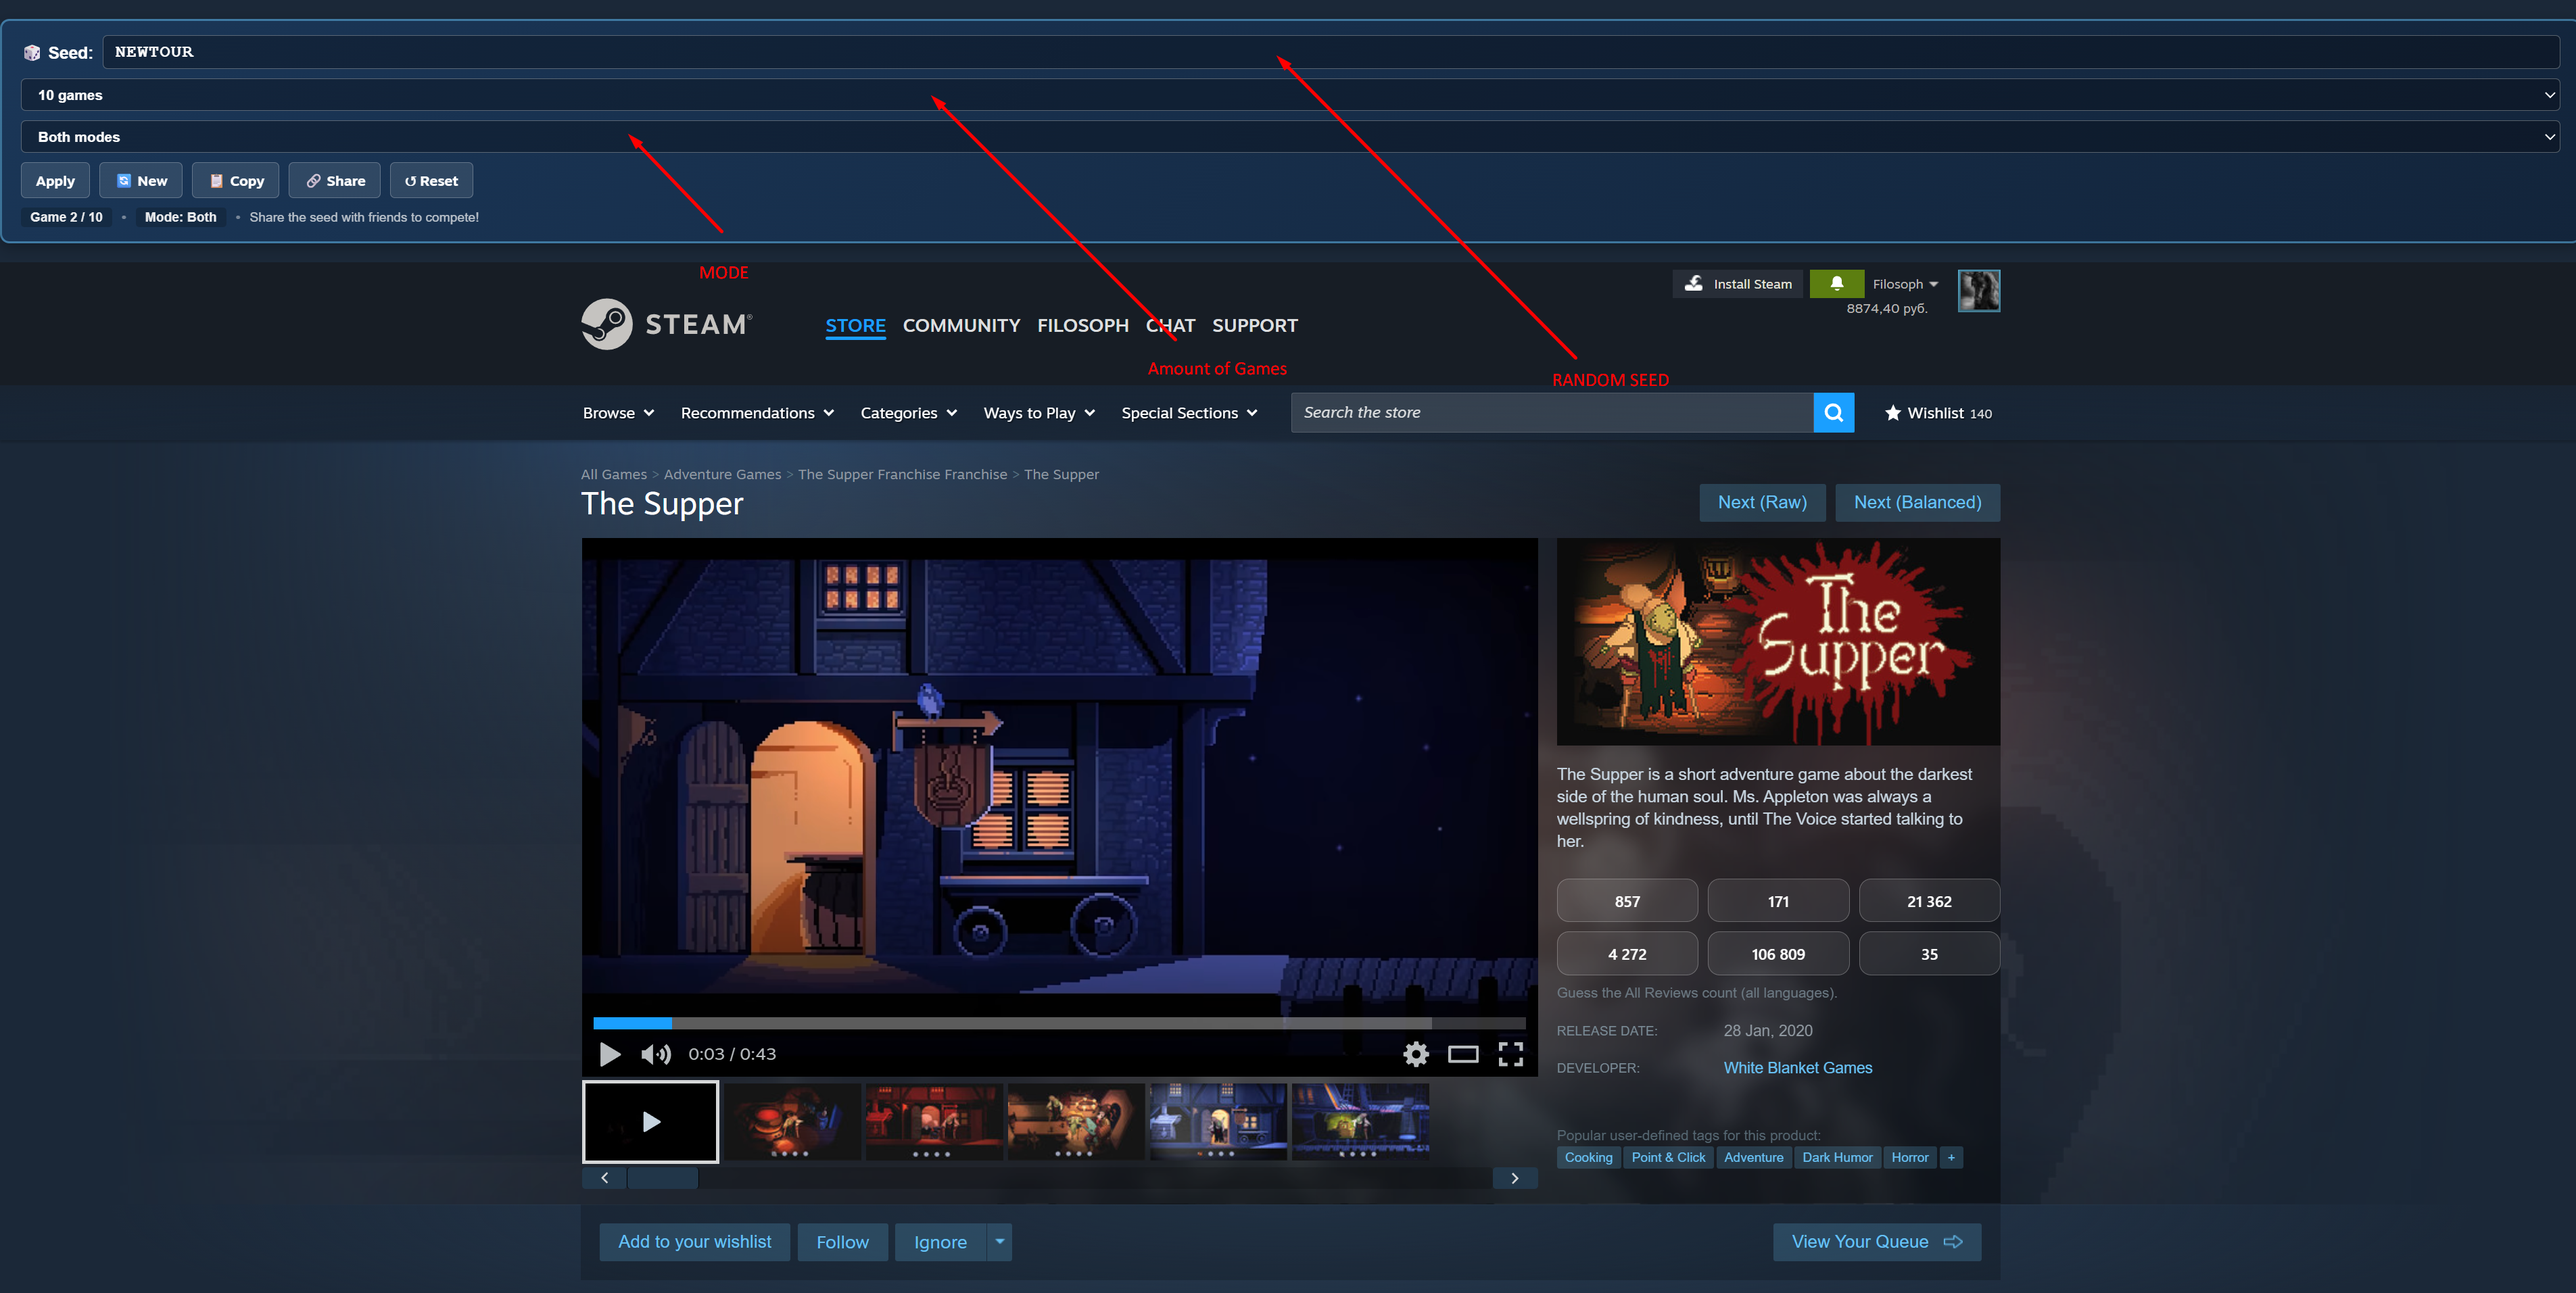
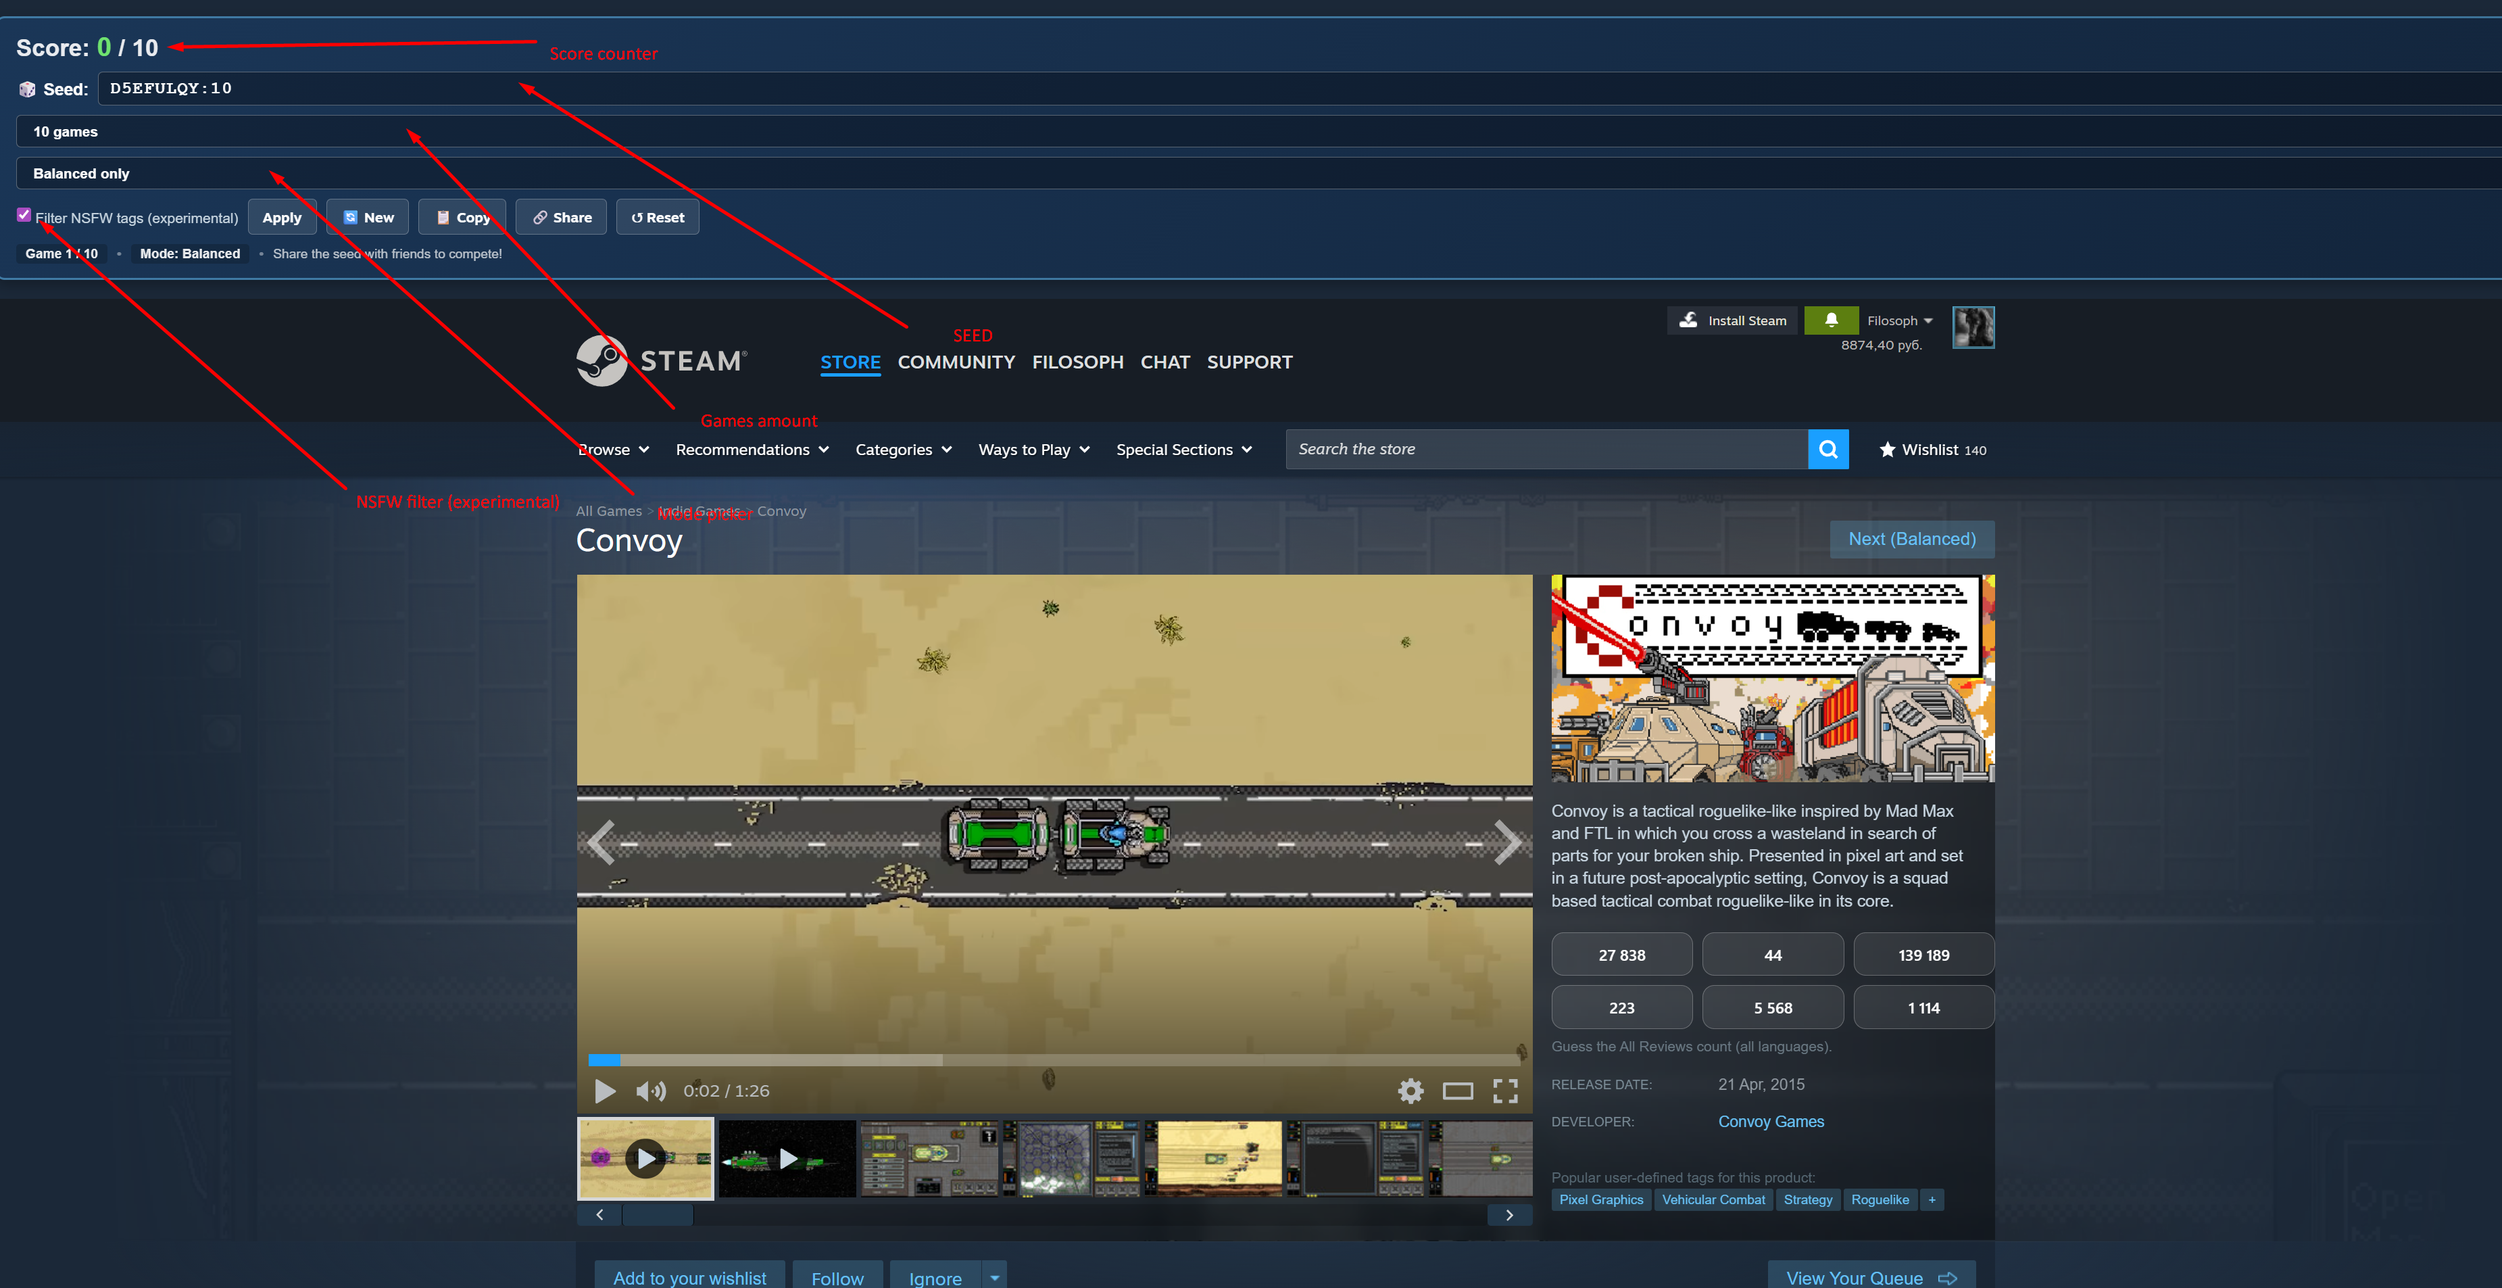
Added score, updated Scressnshot

diff --git a/src/seededRandom.js b/src/seededRandom.js
@@ -61,6 +61,7 @@
 	let currentSeed = null;
 	let currentRNG = null;
 	let gameCounter = 0;
+	let correctCounter = 0; // number of correctly answered games
 	let maxGames = null; // null = unlimited
 	let gameMode = null; // null = both modes, "pure" = raw only, "smart" = balanced only
 	let nsfwFilterEnabled = false; // experimental NSFW tag filtering
@@ -153,7 +154,8 @@
 		currentSeed = seedString;
 		currentRNG = new SeededRNG(seedNumber);
 		maxGames = gameLimit;
-		gameCounter = 0; // Reset counter when seed changes
+		gameCounter = 0; // Reset counters when seed changes
+		correctCounter = 0;
 		
 		// Set game mode if provided
 		if (mode !== undefined) {
@@ -165,6 +167,7 @@
 			localStorage.setItem('reviewguesser:seed', seedString);
 			localStorage.setItem('reviewguesser:maxgames', gameLimit === null ? '' : String(gameLimit));
 			localStorage.setItem('reviewguesser:gamecount', '0');
+			localStorage.setItem('reviewguesser:correctcount', '0');
 			localStorage.setItem('reviewguesser:gamemode', gameMode === null ? '' : String(gameMode));
 			// Track how many times we've actually navigated (used for RNG restore).
 			// This never gets decremented when NSFW pages are auto-skipped so
@@ -200,6 +203,7 @@
 			let savedSeed = null;
 			let savedMaxGames = null;
 			let savedGameCount = 0;
+			let savedCorrectCount = 0;
 			let savedGameMode = null;
 			let savedNavCount = null;
 			
@@ -208,6 +212,7 @@
 				const maxGamesStr = localStorage.getItem('reviewguesser:maxgames');
 				const gameCountStr = localStorage.getItem('reviewguesser:gamecount');
 				const gameModeStr = localStorage.getItem('reviewguesser:gamemode');
+				const correctCountStr = localStorage.getItem('reviewguesser:correctcount');
 				const nsfwFilterStr = localStorage.getItem('reviewguesser:nsfwfilter');
 				const navCountStr = localStorage.getItem('reviewguesser:navcount');
 				
@@ -219,6 +224,9 @@
 				}
 				if (gameModeStr && gameModeStr !== '') {
 					savedGameMode = gameModeStr;
+				}
+				if (correctCountStr) {
+					savedCorrectCount = parseInt(correctCountStr, 10) || 0;
 				}
 
 				if (nsfwFilterStr === '1') {
@@ -250,6 +258,7 @@
 				currentRNG = new SeededRNG(seedNumber);
 				maxGames = savedMaxGames;
 				gameCounter = savedGameCount;
+				correctCounter = savedCorrectCount;
 				gameMode = savedGameMode;
 
 				// CRITICAL FIX: Advance RNG state based on how many times we've
@@ -314,6 +323,27 @@
 	}
 
 	/**
+	 * Increment correct answer counter (call when answering correctly)
+	 * @returns {number} New correct count
+	 */
+	function incrementCorrectCounter() {
+		correctCounter++;
+
+		try {
+			localStorage.setItem('reviewguesser:correctcount', String(correctCounter));
+		} catch (e) {
+			console.warn('[ext] Failed to save correct count', e);
+		}
+
+		// Separate event so UI can react specifically to score changes
+		window.dispatchEvent(new CustomEvent('ext:scorechanged', {
+			detail: { correctCount: correctCounter, maxGames: maxGames }
+		}));
+
+		return correctCounter;
+	}
+
+	/**
 	 * Decrement game counter by 1 (used when auto-skipping NSFW pages).
 	 * Does nothing if the counter is already 0.
 	 *
@@ -348,6 +378,14 @@
 	}
 
 	/**
+	 * Get current correct-answer counter
+	 * @returns {number}
+	 */
+	function getCorrectCounter() {
+		return correctCounter;
+	}
+
+	/**
 	 * Get max games limit
 	 * @returns {number|null} null means unlimited
 	 */
@@ -370,14 +408,20 @@
 	 */
 	function resetGameCounter() {
 		gameCounter = 0;
+		correctCounter = 0;
 		try {
 			localStorage.setItem('reviewguesser:gamecount', '0');
+			localStorage.setItem('reviewguesser:correctcount', '0');
 		} catch (e) {
 			console.warn('[ext] Failed to reset game count', e);
 		}
 
 		window.dispatchEvent(new CustomEvent('ext:gamecountchanged', {
 			detail: { gameCount: 0, maxGames: maxGames }
+		}));
+
+		window.dispatchEvent(new CustomEvent('ext:scorechanged', {
+			detail: { correctCount: 0, maxGames: maxGames }
 		}));
 
 		return 0;
@@ -459,8 +503,10 @@
 	ns.resetSeed = resetSeed;
 	ns.hashString = hashString;
 	ns.incrementGameCounter = incrementGameCounter;
+	ns.incrementCorrectCounter = incrementCorrectCounter;
 	ns.decrementGameCounter = decrementGameCounter;
 	ns.getGameCounter = getGameCounter;
+	ns.getCorrectCounter = getCorrectCounter;
 	ns.getMaxGames = getMaxGames;
 	ns.isGameLimitReached = isGameLimitReached;
 	ns.resetGameCounter = resetGameCounter;

diff --git a/src/seedUI.js b/src/seedUI.js
@@ -12,6 +12,8 @@
 	const setGameMode = ns.setGameMode;
 	const getNSFWFilterEnabled = ns.getNSFWFilterEnabled;
 	const setNSFWFilterEnabled = ns.setNSFWFilterEnabled;
+	const getCorrectCounter = ns.getCorrectCounter;
+	const resetCorrectCounter = ns.resetCorrectCounter;
 
 	/**
 	 * Save current UI state to preserve user input during page updates
@@ -147,6 +149,7 @@
 		const currentSeed = getCurrentSeed() || 'Loading...';
 		const gameCount = getGameCounter ? getGameCounter() : 0;
 		const maxGames = getMaxGames ? getMaxGames() : null;
+		const correctCount = getCorrectCounter ? getCorrectCounter() : 0;
 		const gameMode = getGameMode ? getGameMode() : null;
 		const nsfwFilter = getNSFWFilterEnabled ? getNSFWFilterEnabled() : false;
 		
@@ -156,6 +159,10 @@
 		const modeDisplay = gameMode === 'pure' ? 'Raw' : gameMode === 'smart' ? 'Balanced' : 'Both';
 
 		seedUI.innerHTML = `
+			<div class="ext-score-banner">
+				<span class="ext-score-label">Score:</span>
+				<span class="ext-score-current">${correctCount}</span><span class="ext-score-separator">/</span><span class="ext-score-limit">${limitDisplay}</span>
+			</div>
 			<div class="ext-seed-controls">
 				<div class="ext-seed-label">
 					<span>🎲 Seed:</span>
@@ -330,13 +337,17 @@
 		resetBtn.addEventListener('click', () => {
 			if (resetGameCounter) {
 				resetGameCounter();
-				updateGameCounter();
-				showFeedback(seedUI, 'Game counter reset to 0!');
 			}
+			if (resetCorrectCounter) {
+				resetCorrectCounter();
+			}
+			updateGameCounter();
+			showFeedback(seedUI, 'Game counter and score reset to 0!');
 		});
 
-		// Listen for game count changes
+		// Listen for game count and score changes
 		window.addEventListener('ext:gamecountchanged', updateGameCounter);
+		window.addEventListener('ext:scorechanged', updateGameCounter);
 		window.addEventListener('ext:seedchanged', () => {
 			updateGameCounter();
 			updateSeedDisplay();
@@ -417,6 +428,8 @@
 
 		const countEl = document.querySelector('.ext-game-count');
 		const limitEl = document.querySelector('.ext-game-limit');
+		const scoreCurrentEl = document.querySelector('.ext-score-current');
+		const scoreLimitEl = document.querySelector('.ext-score-limit');
 		
 		if (countEl && getGameCounter) {
 			countEl.textContent = getGameCounter();
@@ -425,6 +438,15 @@
 		if (limitEl && getMaxGames) {
 			const max = getMaxGames();
 			limitEl.textContent = max === null ? 'Unlimited' : max;
+		}
+
+		if (scoreCurrentEl && getCorrectCounter) {
+			scoreCurrentEl.textContent = getCorrectCounter();
+		}
+
+		if (scoreLimitEl && getMaxGames) {
+			const max = getMaxGames();
+			scoreLimitEl.textContent = max === null ? 'Unlimited' : max;
 		}
 
 		// Update limit selector

diff --git a/src/guessingGame.js b/src/guessingGame.js
@@ -8,6 +8,7 @@
 	const waitForAnyReviewCount = ns.waitForAnyReviewCount;
 	const formatNum = ns.formatNum;
 	const getRNG = ns.getRNG;
+	const incrementCorrectCounter = ns.incrementCorrectCounter;
 
 	function buildGuessSet(trueCount) {
 		const MIN_ANSWERS = 6;
@@ -273,6 +274,12 @@
       const mark = (picked) => {
         if (wrap.dataset.locked === "1") return;
         wrap.dataset.locked = "1";
+
+        const isCorrect = picked === correct;
+        if (isCorrect && typeof incrementCorrectCounter === "function") {
+          incrementCorrectCounter();
+        }
+
         btns.forEach((btn) => {
           const val = parseInt(btn.dataset.value, 10);
           if (val === correct) btn.classList.add("correct");

diff --git a/content.css b/content.css
@@ -107,6 +107,30 @@
 	box-shadow: 0 4px 12px rgba(0, 0, 0, 0.3);
 }
 
+.ext-score-banner {
+	display: flex;
+	align-items: baseline;
+	gap: 6px;
+	font-size: 20px;
+	font-weight: 700;
+	color: #fff;
+	margin-bottom: 8px;
+}
+
+.ext-score-label {
+	opacity: 0.9;
+}
+
+.ext-score-current {
+	color: #6fe26f;
+	font-size: 22px;
+}
+
+.ext-score-separator,
+.ext-score-limit {
+	opacity: 0.9;
+}
+
 .ext-seed-controls {
 	display: flex;
 	align-items: center;
